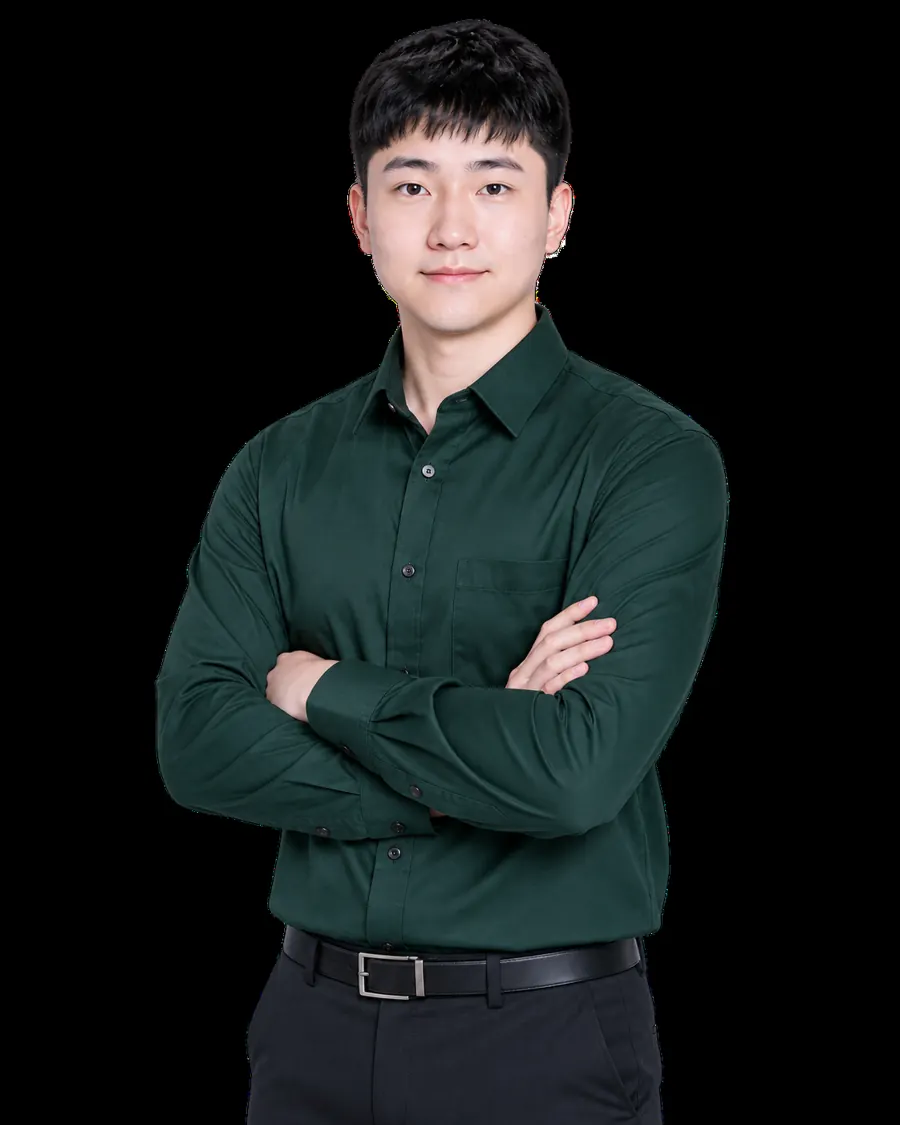
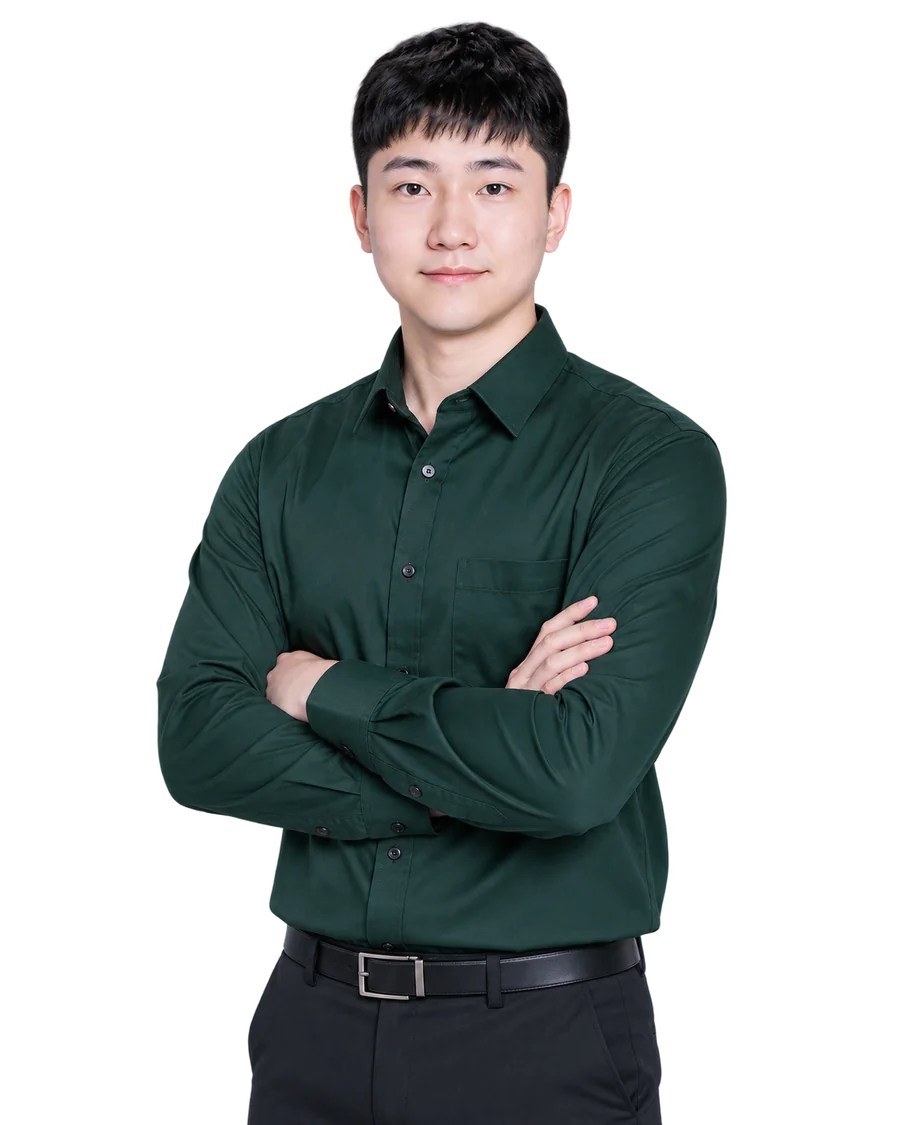
Cut the hero portrait to transparent alpha for the mint card.

diff --git a/index.html b/index.html
@@ -24,7 +24,7 @@
     <meta name="geo.placename" content="Marikina City" />
 
     <link rel="canonical" href="https://mjcuady.dev/" />
-    <link rel="preload" as="image" href="/brand/portrait.webp" fetchpriority="high" />
+    <link rel="preload" as="image" href="/brand/portrait.webp?v=4" fetchpriority="high" />
     <link rel="alternate" hreflang="en-PH" href="https://mjcuady.dev/" />
     <link rel="alternate" hreflang="en" href="https://mjcuady.dev/" />
     <link rel="alternate" hreflang="x-default" href="https://mjcuady.dev/" />

diff --git a/src/index.css b/src/index.css
@@ -2221,6 +2221,7 @@ html.dark .profile-roles li {
   height: 72%;
   max-width: 88%;
   pointer-events: none;
+  background: transparent;
 }
 
 .profile-card__shot img {
@@ -2230,6 +2231,7 @@ html.dark .profile-roles li {
   max-width: 100%;
   object-fit: contain;
   object-position: bottom right;
+  background: transparent;
 }
 
 .profile-card__avail {

diff --git a/src/components/portfolio/ProfileCard.jsx b/src/components/portfolio/ProfileCard.jsx
@@ -28,7 +28,7 @@ export default function ProfileCard() {
       </div>
       <div className="hero-portrait profile-card__shot">
         <img
-          src="/brand/portrait.webp"
+          src="/brand/portrait.webp?v=4"
           alt="Portrait of Malcolm Joaquin Cuady"
           width={900}
           height={1125}

diff --git a/scripts/key-brand-assets.py b/scripts/key-brand-assets.py
@@ -1,0 +1,92 @@
+"""Cut brand logos + hero portrait for the bento card.
+
+Logos: flood-fill near-black to alpha (keeps forest-green ink).
+Portrait: rembg subject cutout so the mint / dark card shows through.
+"""
+from collections import deque
+from pathlib import Path
+
+from PIL import Image
+from rembg import remove
+
+ROOT = Path(__file__).resolve().parents[1]
+OUT = ROOT / "public" / "brand"
+OUT.mkdir(parents=True, exist_ok=True)
+SRC = Path(r"c:\Users\jcuad\OneDrive\Documents\Resume")
+
+
+def is_black(r, g, b, max_ch=22, green_slack=10):
+    if max(r, g, b) > max_ch:
+        return False
+    # Keep forest-green letter/shirt pixels (g ahead of r/b).
+    if g - r >= green_slack and g - b >= 4:
+        return False
+    return True
+
+
+def flood_alpha(im, max_ch=22):
+    im = im.convert("RGBA")
+    px = im.load()
+    w, h = im.size
+    seen = bytearray(w * h)
+    q = deque()
+
+    def idx(x, y):
+        return y * w + x
+
+    def push(x, y):
+        if x < 0 or y < 0 or x >= w or y >= h:
+            return
+        i = idx(x, y)
+        if seen[i]:
+            return
+        r, g, b, a = px[x, y]
+        if a == 0 or not is_black(r, g, b, max_ch=max_ch):
+            return
+        seen[i] = 1
+        q.append((x, y))
+
+    for x, y in ((0, 0), (w - 1, 0), (0, h - 1), (w - 1, h - 1)):
+        push(x, y)
+    for x in range(0, w, max(1, w // 24)):
+        push(x, 0)
+        push(x, h - 1)
+    for y in range(0, h, max(1, h // 24)):
+        push(0, y)
+        push(w - 1, y)
+
+    while q:
+        x, y = q.popleft()
+        r, g, b, _ = px[x, y]
+        px[x, y] = (r, g, b, 0)
+        push(x + 1, y)
+        push(x - 1, y)
+        push(x, y + 1)
+        push(x, y - 1)
+    return im
+
+
+logo_jobs = [
+    (SRC / "logolight.png", OUT / "logo-light.png", 20),
+    (SRC / "logodark.png", OUT / "logo-dark.png", 18),
+]
+
+for src, dest, thresh in logo_jobs:
+    if not src.exists():
+        raise SystemExit(f"missing {src}")
+    out = flood_alpha(Image.open(src), max_ch=thresh)
+    out.save(dest, "PNG", optimize=True)
+    print(f"{dest.name} {out.size} mode={out.mode}")
+
+portrait_src = SRC / "MJC.png"
+if not portrait_src.exists():
+    raise SystemExit(f"missing {portrait_src}")
+
+cut = remove(Image.open(portrait_src).convert("RGBA"))
+cut = cut.resize((900, 1125), Image.Resampling.LANCZOS)
+png_path = OUT / "portrait.png"
+webp_path = OUT / "portrait.webp"
+cut.save(png_path, "PNG", optimize=True)
+cut.save(webp_path, "WEBP", quality=85, method=6)
+print(f"portrait.png {cut.size} {png_path.stat().st_size}B")
+print(f"portrait.webp {webp_path.stat().st_size}B")
